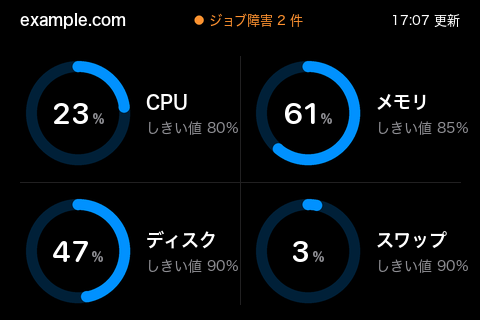
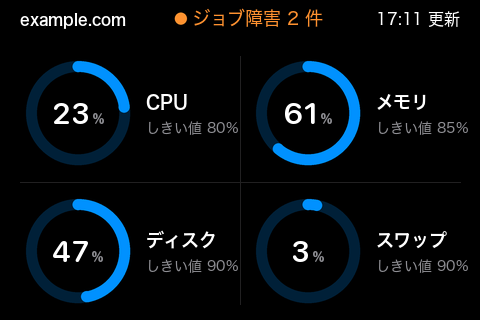
fix(monitor): 横置きの監視の状態・アラート・右上の時刻を縦置きと同じ大きさにする
実機を見たユーザーが、見出しの監視の状態と更新時刻が小さくて読みづらいと指摘した。見本の 2 案から、見出しを 1 行のまま文字を大きくする案をユーザーが選んだ（監視の状態 13→18、アラート 15→18、時刻 13→16 ピクセル）。縦置きは変えていない。

Changed region(s): [[0.3438, 0.0312, 0.6875, 0.0938], [0.7812, 0.0312, 0.9688, 0.0938]]

diff --git a/claude_usage_display/monitor_screen.py b/claude_usage_display/monitor_screen.py
@@ -60,8 +60,12 @@ class _Layout:
 
 
 LANDSCAPE = _Layout(
-    size=(480, 320), inset=20, title_baseline=25, pill=(116, 6, 364, 32), status_baseline=25, dot_y=20,
-    status_size=13, alert_size=15, dot_radius=4.5, stamp_size=13, tall_pill=None, tall_baselines=None,
+    # 監視の状態・帯の中のアラート・右上の時刻を、実機を見たユーザーの指示で縦置きと同じ大きさにした（2026-10-15。
+    # 文言 13→18・点の半径 4.5→6・アラート 15→18・時刻 13→16。帯は 6〜32 → 4〜34）。見出しは 1 行のまま
+    # （ユーザーが見本で選んだ）。帯の幅は変えていないので、長いアラートは帯に合わせて縮む。
+    # 時刻（「00:00 更新」の幅 84）の左端は 376 で、帯の右端（364）との間は 12 ピクセル
+    size=(480, 320), inset=20, title_baseline=25, pill=(116, 4, 364, 34), status_baseline=25, dot_y=18.5,
+    status_size=18, alert_size=18, dot_radius=6, stamp_size=16, tall_pill=None, tall_baselines=None,
     # 数字をリングの中に入れ、名前としきい値をリングの右で縦の中ほどに置く（2026-10-15、ユーザーが見本で選んだ）。
     # 名前・しきい値は縦置きと同じ大きさ（18・14）。左の列の「しきい値 80%」（幅 92）の右端は 238 で、
     # 区切り線（240）の 2 ピクセル手前。しきい値は 2 桁の整数まで収まる

diff --git a/tests/test_monitor_screen.py b/tests/test_monitor_screen.py
@@ -47,6 +47,11 @@ class MonitorScreenTest(unittest.TestCase):
                  for y in range(round(label_y + 2), round(threshold_y - threshold_size))]
         self.assertTrue(all(p == BACKGROUND for p in right))
 
+    def test_landscape_stamp_stays_right_of_the_pill(self):
+        # 2026-10-15 に時刻を 13→16 ピクセルにした。帯（アラートの白い地）に時刻がかからない
+        start = 480 - ms.LANDSCAPE.inset - font(ms.LANDSCAPE.stamp_size, SMALL_WEIGHT).getlength("00:00 更新")
+        self.assertGreater(start, ms.LANDSCAPE.pill[2])
+
     def test_landscape_threshold_stays_left_of_the_divider(self):
         threshold_x, _, _, threshold_size = ms.LANDSCAPE.threshold
         end = ms.LANDSCAPE.cells[0][0] + threshold_x + font(threshold_size, SMALL_WEIGHT).getlength("しきい値 85%")

diff --git a/docs/handover.md b/docs/handover.md
@@ -336,7 +336,10 @@ scripts/uninstall-launch-agent.sh                                 # 自動起動
 - **きっかけ**: ユーザーが「縦画面は変えずに、横画面にした場合の画像を」と求め、数字をリングの中に入れた見本を 2 通り描いた（いまの値と、`--demo alert` の値）。案 1 は 2×2 のまま、リングの右に名前としきい値。案 2 は 5.2 インチと同じ 4 つの縦の列（上から名前・リング・しきい値。列の幅が 120 ピクセルなのでリングは半径 47 に縮む）。**ユーザーが案 1 を選び、実機の画面を書き換えるよう指示した**（17:07）
 - `monitor_screen.LANDSCAPE` の値だけを変えた。リングは区画の (58, 69) を中心に半径 52・太さ 11（前は (52, 68)・48）。数字はリングの中に 30 ピクセル（% は 14）で中央にそろえる（前はリングの右に 40 ピクセル）。名前は 18 ピクセル（前は 15）、しきい値は 14 ピクセル（前は 12）で、どちらも縦置きと同じ大きさ。左の列の「しきい値 80%」の右端は 238 で、区切り線（240）の 2 ピクセル手前（2 桁の整数のしきい値まで収まる）
 - 確かめたこと: 新しい横置きが見本の案 1 と、縦置きが変更前のコードと、正常・異常・ジョブの障害の見本の値で、架空の設定・実際の設定のどちらでも 1 ピクセルも違わない。テストは 144 件すべて通過。足したテスト（`test_landscape_puts_the_number_inside_the_ring`）は、変更前の配置に戻すと落ちる。README の横置きの 3 枚を作り直した（縦置きの 1 枚は、描いた時刻の数字のほかは同じだったので変えていない）
-- **横置きの見出しの行は変えていない。**縦置きは 2026-10-11 に実機を見たユーザーの指示で、監視の状態を 13→18 ピクセル、右上の時刻を 13→16 ピクセルにしたが、横置きは 13 ピクセルのまま。名前と同じ行に帯を置くので、異常のときのアラートは帯の幅に合わせて縮み、縦置きの 18 ピクセルよりずっと小さい。見本を出したときにユーザーへ伝えた
+- この時点では横置きの見出しの行は変えず、監視の状態と右上の時刻は 13 ピクセルのままだった（縦置きは 2026-10-11 に 18・16 ピクセルにしてある）。見本を出したときにユーザーへ伝えた
+- 常駐を横置きで登録し直した（17:08。`scripts/install-launch-agent.sh --monitor --device 3.5 --brightness 25`。縦置きの `--portrait --flip` を外した。3.5 インチの横置きは `--flip` 無しで正しい向き（§5-6 の 4））
+- **実機を見たユーザーが「ヘッダーの監視状況、更新時刻のフォントサイズが小さくて読みづらい」と指摘した。**見本を 2 案描いた。案 A は見出しを 1 行のまま文字だけを縦置きと同じ大きさにする。案 B は縦置きと同じく監視の状態を名前の下の行に移し、2×2 を 28 ピクセル下げる（リングの半径 52→50）。案 B ならアラートも横幅いっぱいの帯に 18 ピクセルのまま収まると伝えて案 B をすすめたが、**ユーザーは案 A を選んだ**
+- 案 A: 監視の状態 13→18 ピクセル、点の半径 4.5→6、帯の中のアラート 15→18 ピクセル、右上の時刻 13→16 ピクセル、帯は 6〜32 → 4〜34。帯の幅（116〜364）は変えていないので、長いアラートは帯に合わせて縮む（見本の「トップ HTTP 503（期待 200）　ほか 1 件」は 18 ピクセルでは収まらない）。時刻（「00:00 更新」の幅 84）の左端は 376 で、帯の右端との間は 12 ピクセル（テスト `test_landscape_stamp_stays_right_of_the_pill`）。見本の案 A と、正常・異常・ジョブの障害・取得の失敗の見本の値で 1 ピクセルも違わず、縦置きは変わらないことを確かめた。README の横置きの 3 枚を作り直した
 
 ## 5. 残っている作業（上から順に）
 
